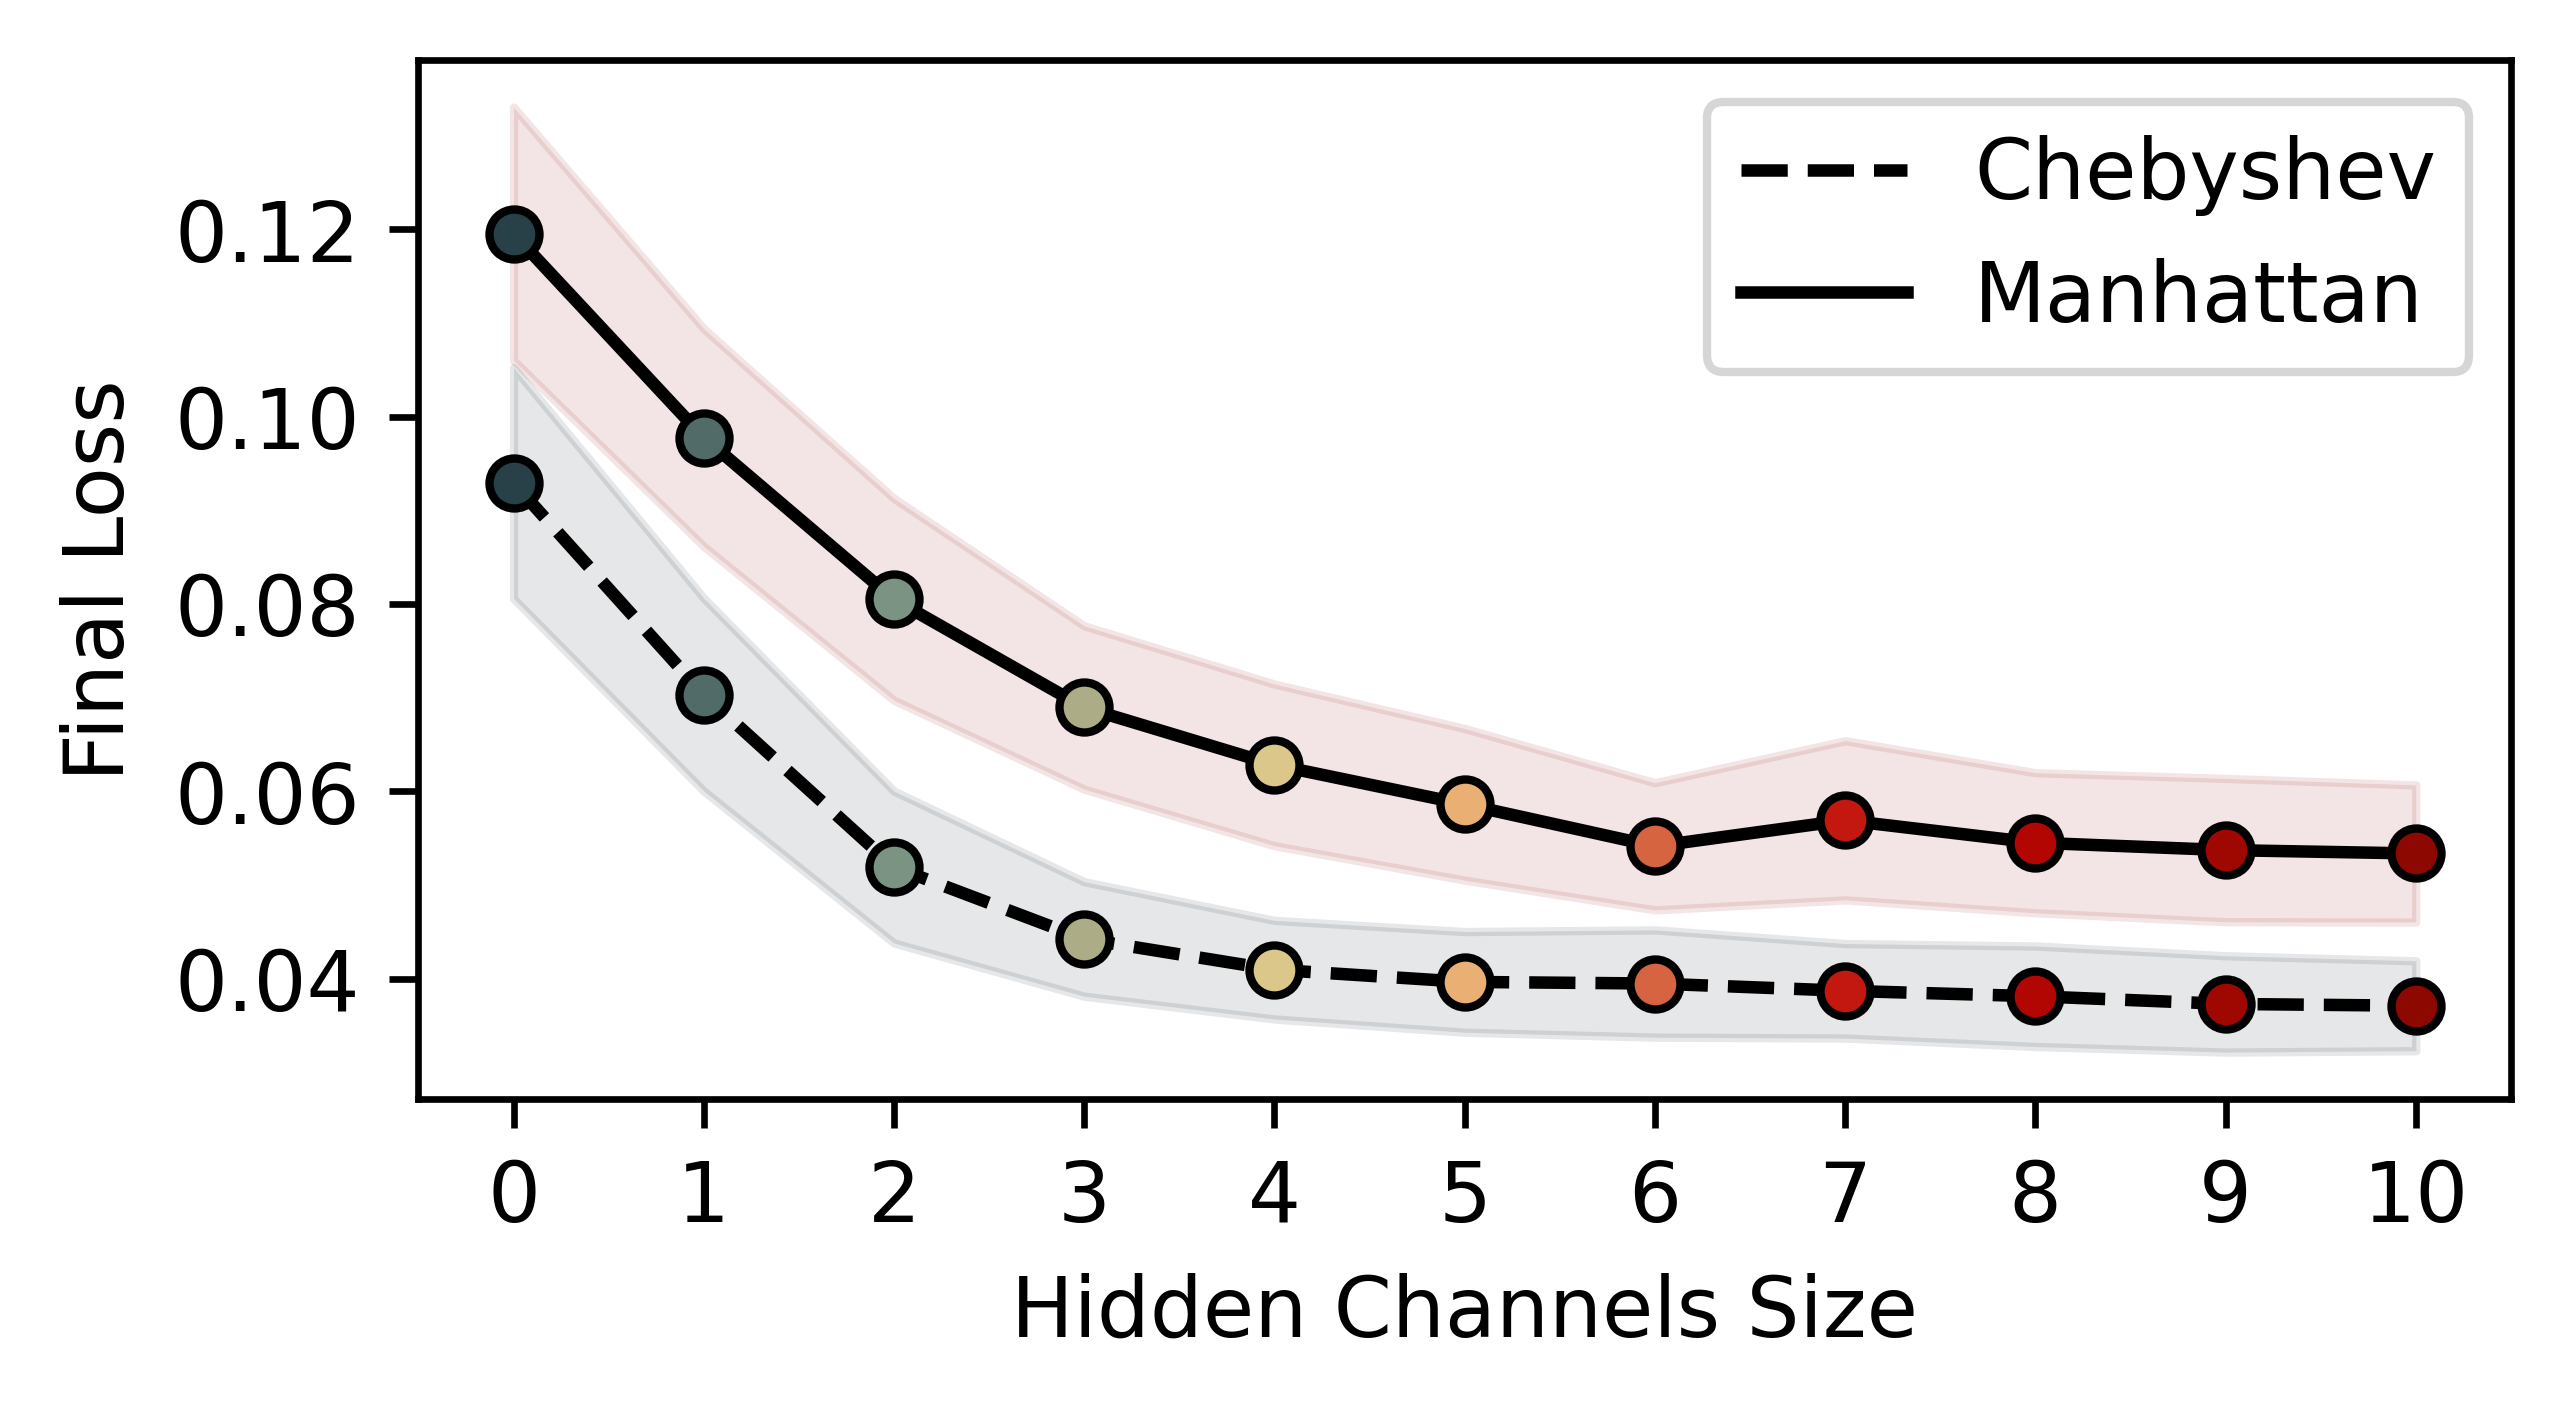
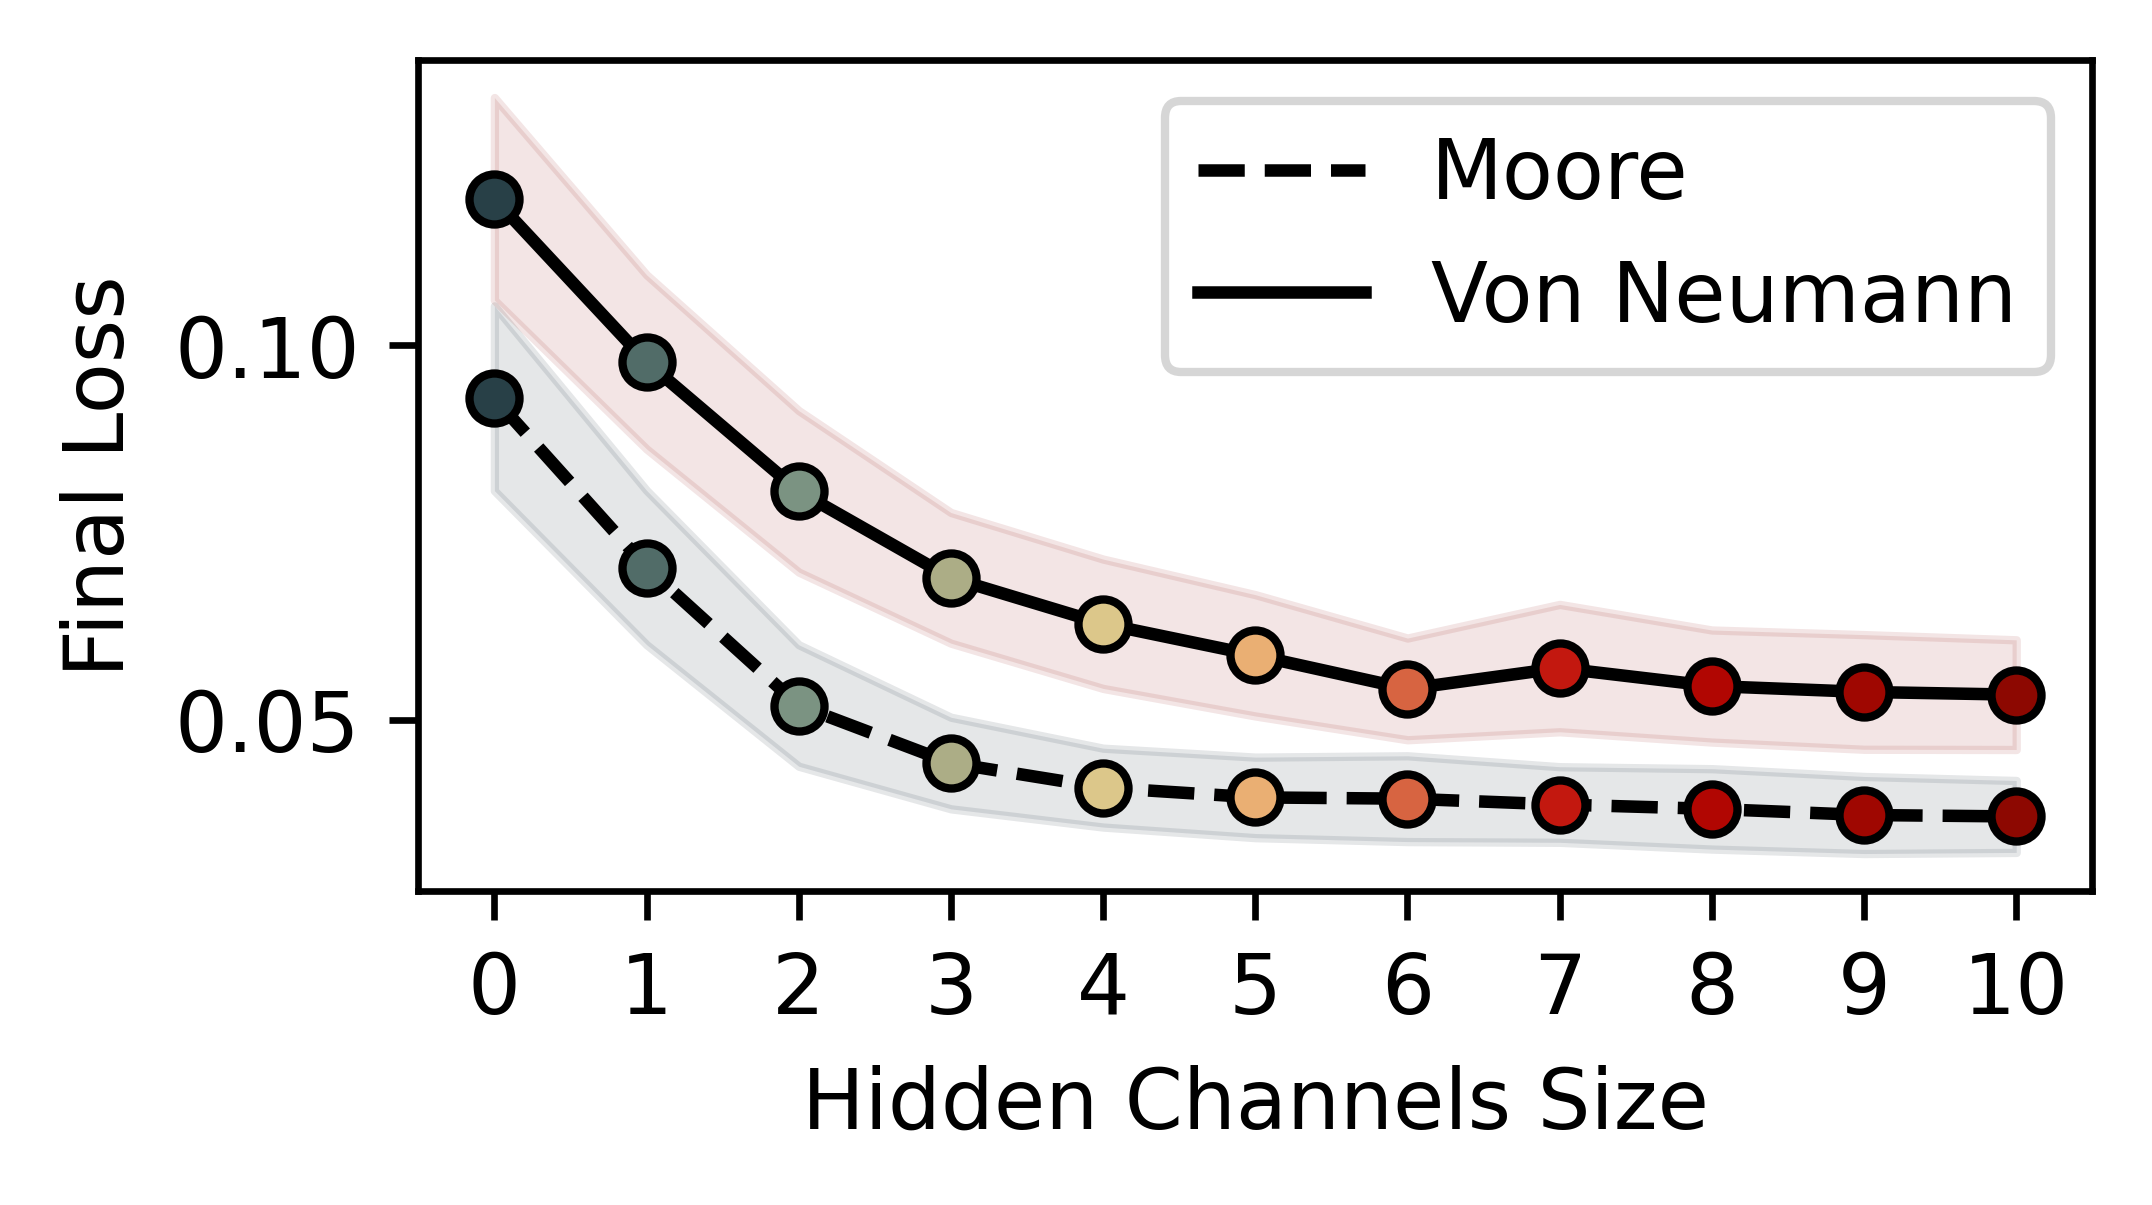
Metric names

Changed region(s): [[0.0, 0.0307, 0.9963, 0.9519], [0.5604, 0.3071, 0.934, 0.3378]]

diff --git a/Exp_Neighbor_Visuals.py b/Exp_Neighbor_Visuals.py
@@ -78,8 +78,8 @@ def plot_training_results():
 
 
 
-    plt.plot([], [], '--', label=f'Chebyshev', color='black')
-    plt.plot([], [], '-', label=f'Manhattan', color='black')
+    plt.plot([], [], '--', label=f'Moore', color='black')
+    plt.plot([], [], '-', label=f'Von Neumann', color='black')
     
     #for i,hs in enumerate(sizes):
     #    plt.plot([], [], 'o', label=f'$H_S$:{hs}', color=palette[i+1])
@@ -143,9 +143,9 @@ def plot_final_loss():
     plt.figure(figsize=_colors.FIG_SIZE)
     
     palette2 = _colors.create_palette(2)
-    plt.plot(sizes, ccm, color='black', linestyle='--', label='Chebyshev')
+    plt.plot(sizes, ccm, color='black', linestyle='--', label='Moore')
     plt.fill_between(sizes, ccm - ccs, ccm + ccs, alpha=0.1, color=palette[0])
-    plt.plot(sizes, mcm, color='black', linestyle='-', label='Manhattan')
+    plt.plot(sizes, mcm, color='black', linestyle='-', label='Von Neumann')
     plt.fill_between(sizes, mcm - mcs, mcm + mcs, alpha=0.1, color=palette[-1])
 
 
